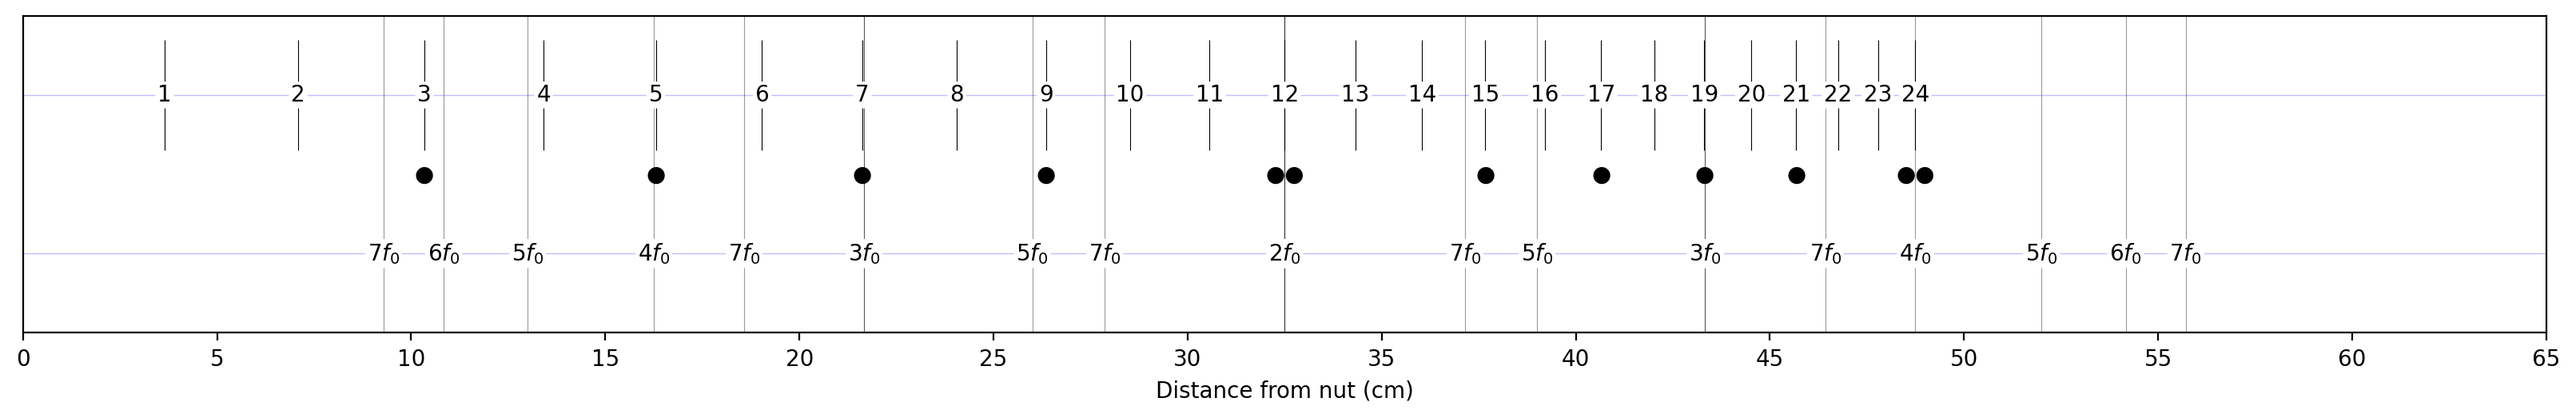
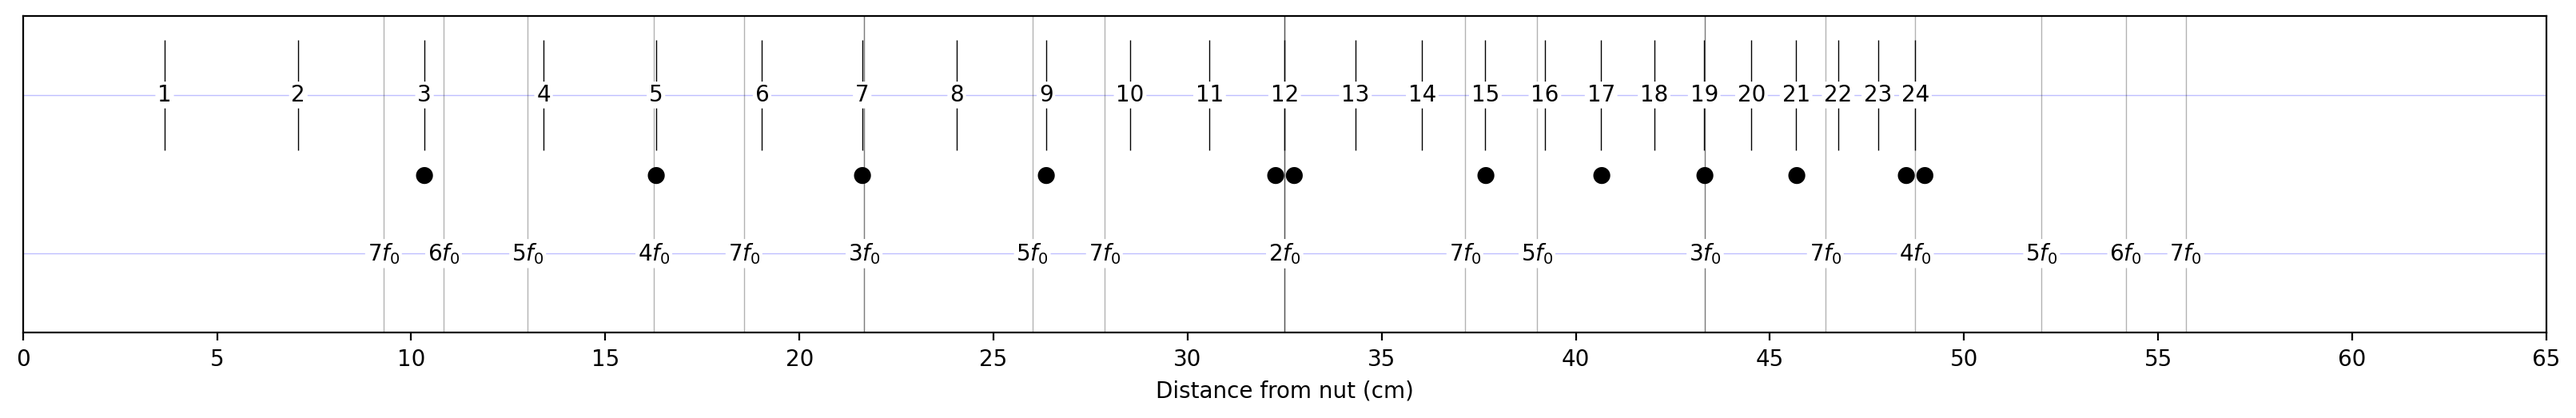
Change resolution

diff --git a/main.py b/main.py
@@ -29,7 +29,7 @@ def main():
     for numerator in range(1, harmonic):
       fraction = scale_length * numerator / harmonic
 
-      ax.plot(fraction, 0, color="black", marker="|", ms=1000, alpha=0.4, markeredgewidth=0.4)
+      ax.plot(fraction, 0, color="black", marker="|", ms=1000, alpha=0.3, markeredgewidth=0.5)
       ax.text(fraction, 0, rf"${harmonic}f_0$", horizontalalignment="center", verticalalignment="center", bbox=bbox_style)
 
   # Mark frets with a single dot.
@@ -41,7 +41,7 @@ def main():
     # Use equal temperment for fret spacing.
     distance = scale_length - scale_length / 2 ** (fret / 12)
     
-    ax.plot(distance, 1, color="black", marker="|", ms=50, markeredgewidth=0.4)
+    ax.plot(distance, 1, color="black", marker="|", ms=50, markeredgewidth=0.5)
     ax.text(distance, 1, f"{fret}", horizontalalignment="center", verticalalignment="center", bbox=bbox_style)
 
     if fret in marked_frets:
